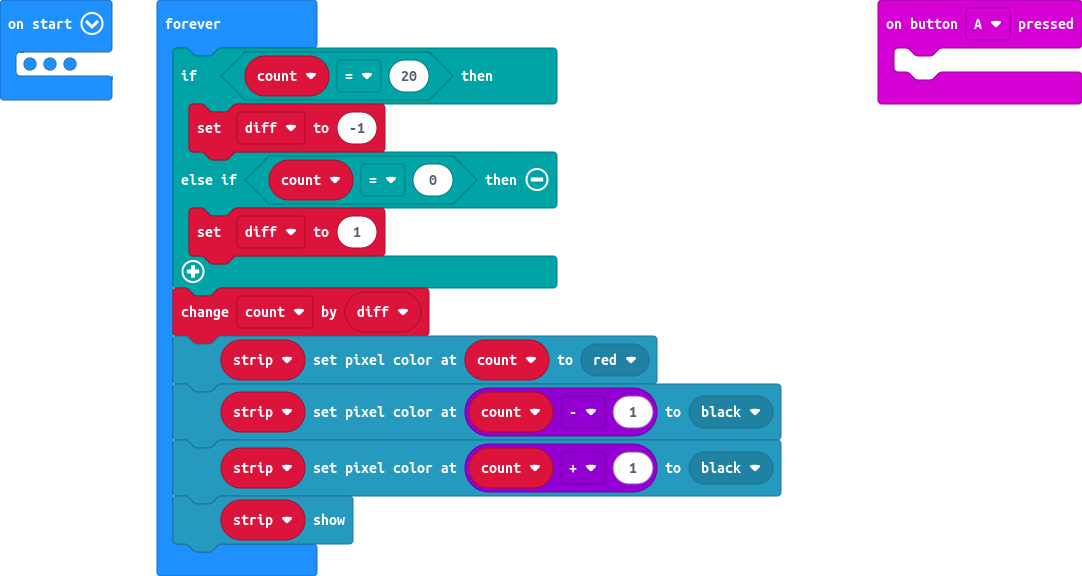
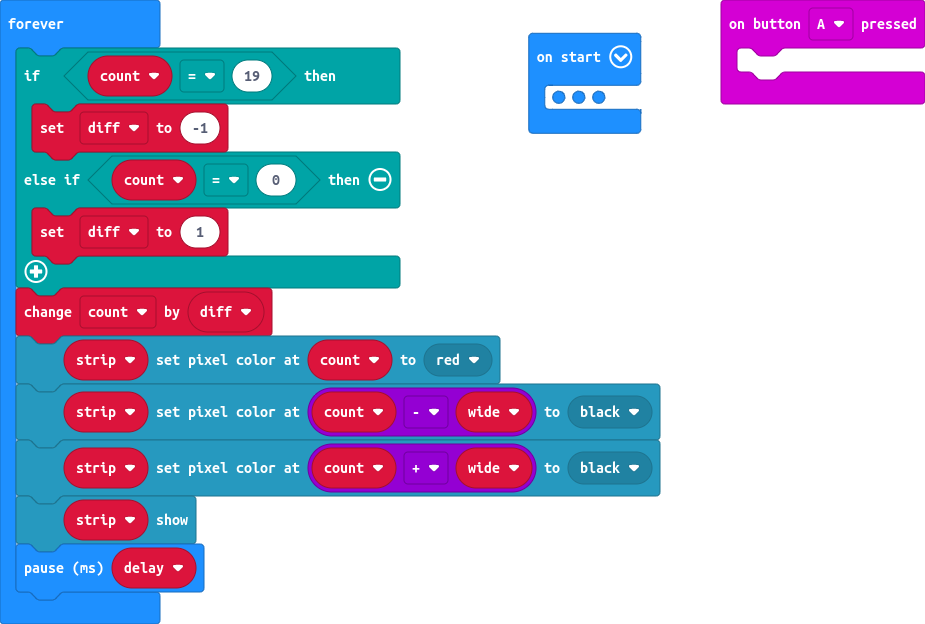
set variables in startup  + changed 20 to 19

diff --git a/main.ts b/main.ts
@@ -7,15 +7,18 @@ strip.clear()
 strip.show()
 let count = 0
 let diff = 1
+let delay = 16
+let wide = 3
 basic.forever(function () {
-    if (count == 20) {
+    if (count == 19) {
         diff = -1
     } else if (count == 0) {
         diff = 1
     }
     count += diff
     strip.setPixelColor(count, neopixel.colors(NeoPixelColors.Red))
-    strip.setPixelColor(count - 1, neopixel.colors(NeoPixelColors.Black))
-    strip.setPixelColor(count + 1, neopixel.colors(NeoPixelColors.Black))
+    strip.setPixelColor(count - wide, neopixel.colors(NeoPixelColors.Black))
+    strip.setPixelColor(count + wide, neopixel.colors(NeoPixelColors.Black))
     strip.show()
+    basic.pause(delay)
 })
